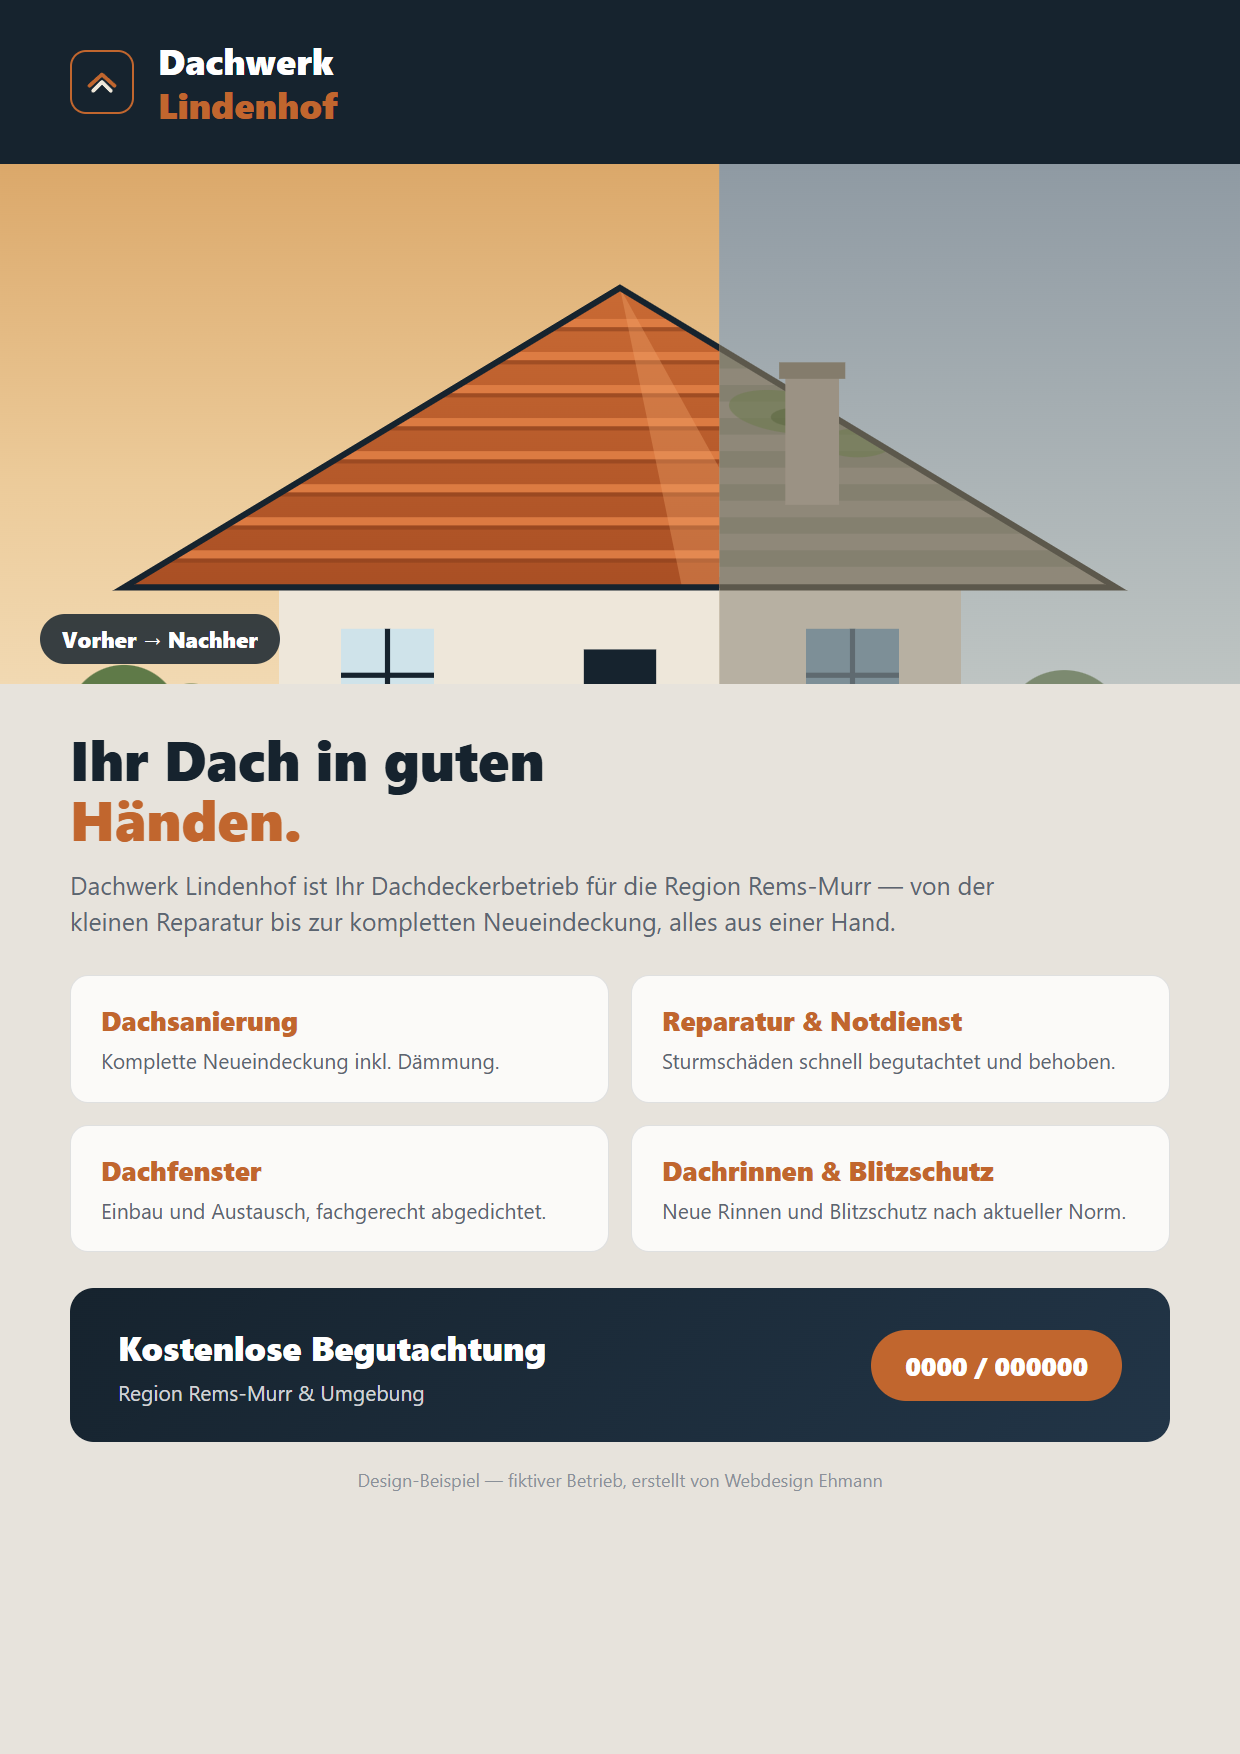
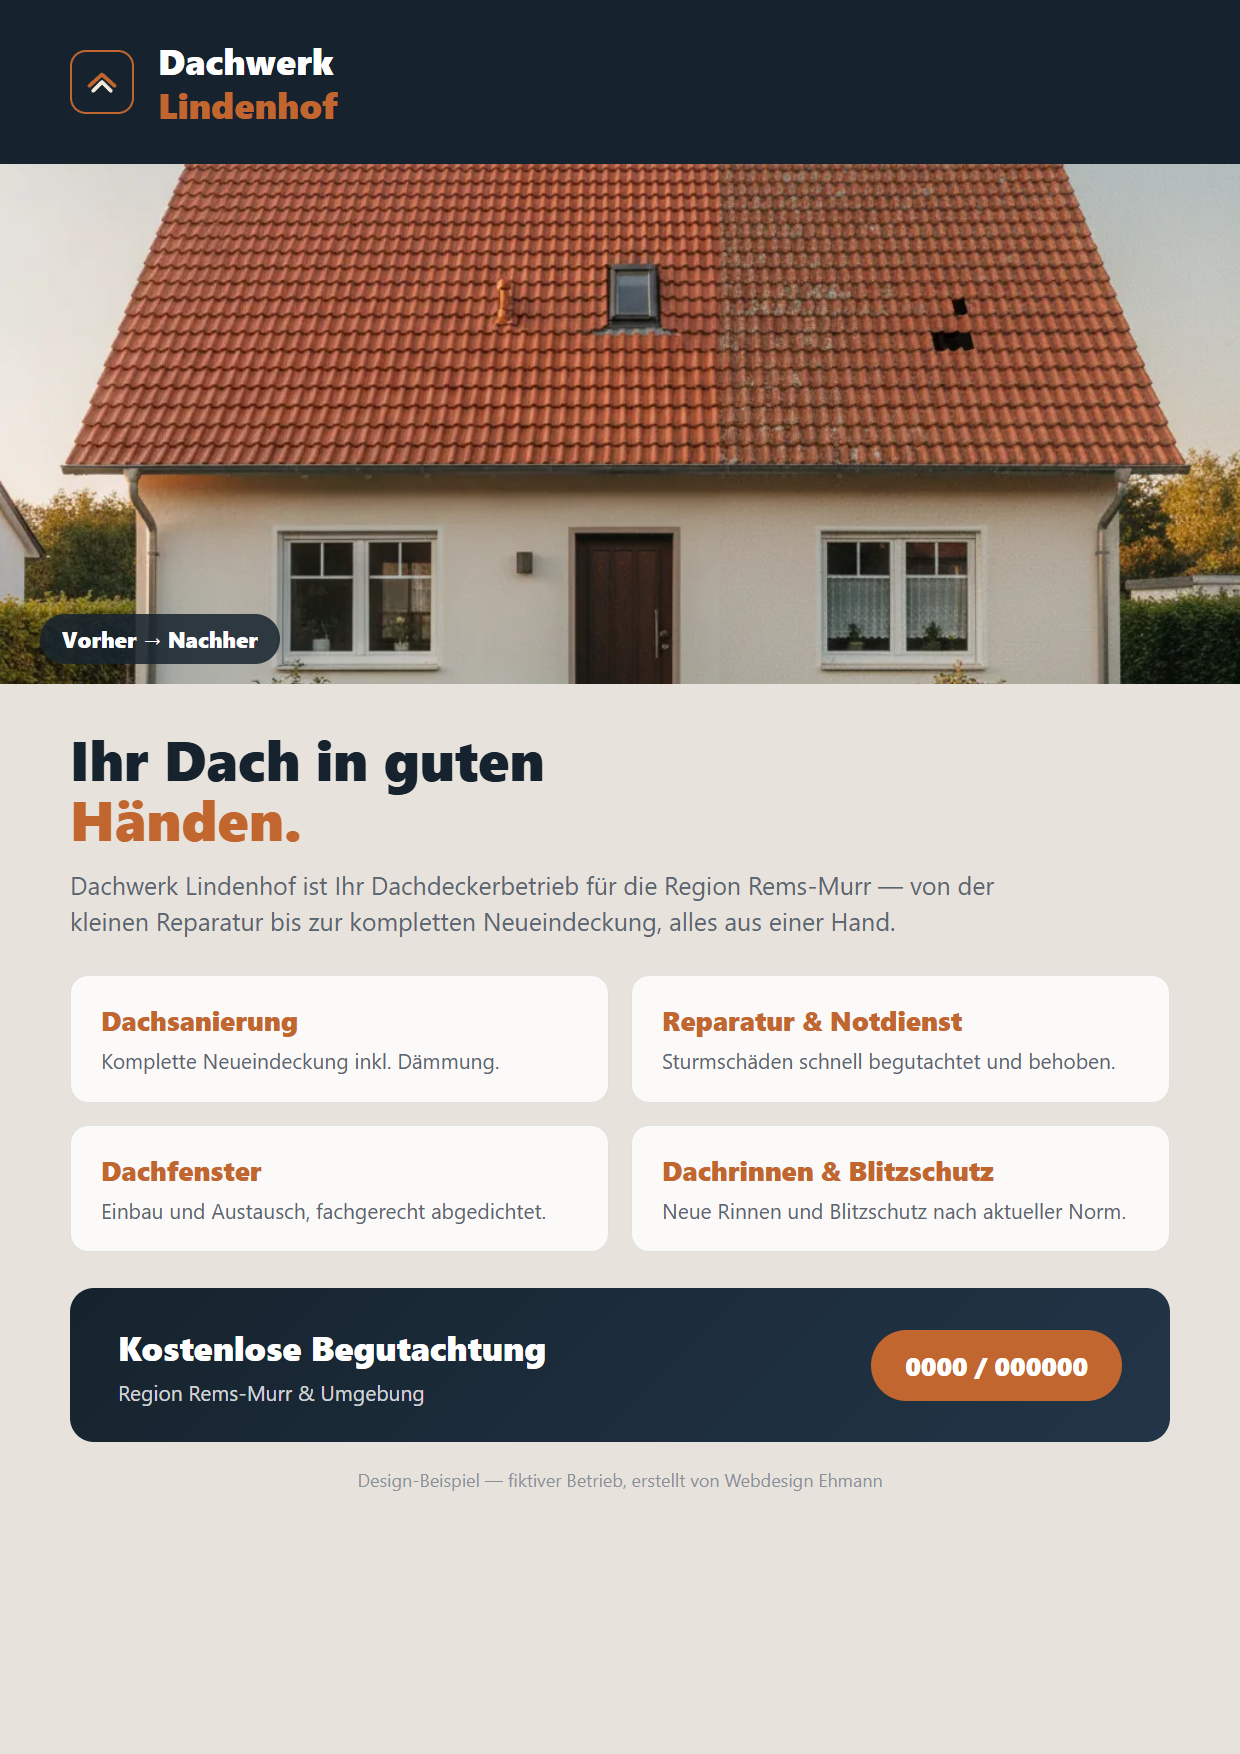
Dachwerk Lindenhof: echte KI-generierte Fotos statt SVG-Illustration
Gemini-API-Key ist jetzt eingerichtet (Bildgenerierung funktioniert) - Hero-
Dachfoto, die 3 Vorher/Nachher-Detailpaare (Ziegel/Rinne/Kamin) und das
Logo wurden per Nano Banana (gemini-2.5-flash-image) neu erzeugt statt
handgezeichneter SVGs. Vorher/Nachher-Paare per Bild-zu-Bild-Edit aus
demselben Ausgangsfoto erzeugt, damit Bildausschnitt/Perspektive fuer den
Scroll-Wipe exakt uebereinstimmen. Als WebP komprimiert.

Marketing-Assets (Instagram-Post 1, Flyer) entsprechend mit den echten
Fotos statt der SVG-Platzhalter neu gerendert.

Changed region(s): [[0.0, 0.0924, 1.0, 0.4002]]

diff --git a/vorschau/dachwerk-lindenhof/index.html b/vorschau/dachwerk-lindenhof/index.html
@@ -57,10 +57,10 @@
   <section id="hero-pin" class="hero-pin">
     <div class="hero-stage">
       <div class="hero-stage__layer hero-stage__layer--before">
-        <img src="assets/images/roof-vorher.svg" alt="Haus mit altem, moosigem Dach vor der Sanierung" width="1200" height="700">
+        <img src="assets/images/roof-vorher.webp" alt="Haus mit altem, moosigem Dach vor der Sanierung" width="1024" height="1024">
       </div>
       <div class="hero-stage__layer hero-stage__layer--after" id="hero-after">
-        <img src="assets/images/roof-nachher.svg" alt="Dasselbe Haus mit frisch saniertem Kupferrot-Dach nach der Sanierung" width="1200" height="700">
+        <img src="assets/images/roof-nachher.webp" alt="Dasselbe Haus mit frisch saniertem Kupferrot-Dach nach der Sanierung" width="1024" height="1024">
       </div>
       <div class="hero-stage__scrim" aria-hidden="true"></div>
       <div class="hero-stage__content">
@@ -90,8 +90,8 @@
           <div class="work-card__frame" tabindex="0">
             <span class="work-card__tag">Vorher</span>
             <span class="work-card__tag work-card__tag--after">Nachher</span>
-            <img class="before" src="assets/images/roof-vorher.svg" alt="Komplettes Hausdach vor der Sanierung" loading="lazy" width="1200" height="700">
-            <img class="after" src="assets/images/roof-nachher.svg" alt="Komplettes Hausdach nach der Sanierung" loading="lazy" width="1200" height="700">
+            <img class="before" src="assets/images/roof-vorher.webp" alt="Komplettes Hausdach vor der Sanierung" loading="lazy" width="1024" height="1024">
+            <img class="after" src="assets/images/roof-nachher.webp" alt="Komplettes Hausdach nach der Sanierung" loading="lazy" width="1024" height="1024">
             <span class="work-card__divider" aria-hidden="true"></span>
           </div>
           <div class="work-card__body">
@@ -104,8 +104,8 @@
           <div class="work-card__frame" tabindex="0">
             <span class="work-card__tag">Vorher</span>
             <span class="work-card__tag work-card__tag--after">Nachher</span>
-            <img class="before" src="assets/images/detail-ziegel-vorher.svg" alt="Rissige, bemooste Dachziegel vor der Sanierung" loading="lazy" width="400" height="300">
-            <img class="after" src="assets/images/detail-ziegel-nachher.svg" alt="Neue Dachziegel nach der Sanierung" loading="lazy" width="400" height="300">
+            <img class="before" src="assets/images/detail-ziegel-vorher.webp" alt="Rissige, bemooste Dachziegel vor der Sanierung" loading="lazy" width="900" height="900">
+            <img class="after" src="assets/images/detail-ziegel-nachher.webp" alt="Neue Dachziegel nach der Sanierung" loading="lazy" width="900" height="900">
             <span class="work-card__divider" aria-hidden="true"></span>
           </div>
           <div class="work-card__body">
@@ -118,8 +118,8 @@
           <div class="work-card__frame" tabindex="0">
             <span class="work-card__tag">Vorher</span>
             <span class="work-card__tag work-card__tag--after">Nachher</span>
-            <img class="before" src="assets/images/detail-rinne-vorher.svg" alt="Verrostete, undichte Dachrinne vor der Sanierung" loading="lazy" width="400" height="300">
-            <img class="after" src="assets/images/detail-rinne-nachher.svg" alt="Neue Dachrinne nach der Sanierung" loading="lazy" width="400" height="300">
+            <img class="before" src="assets/images/detail-rinne-vorher.webp" alt="Verrostete, undichte Dachrinne vor der Sanierung" loading="lazy" width="900" height="900">
+            <img class="after" src="assets/images/detail-rinne-nachher.webp" alt="Neue Dachrinne nach der Sanierung" loading="lazy" width="900" height="900">
             <span class="work-card__divider" aria-hidden="true"></span>
           </div>
           <div class="work-card__body">
@@ -132,8 +132,8 @@
           <div class="work-card__frame" tabindex="0">
             <span class="work-card__tag">Vorher</span>
             <span class="work-card__tag work-card__tag--after">Nachher</span>
-            <img class="before" src="assets/images/detail-kamin-vorher.svg" alt="Beschädigter Schornstein-Anschluss vor der Sanierung" loading="lazy" width="400" height="300">
-            <img class="after" src="assets/images/detail-kamin-nachher.svg" alt="Neu abgedichteter Schornstein-Anschluss nach der Sanierung" loading="lazy" width="400" height="300">
+            <img class="before" src="assets/images/detail-kamin-vorher.webp" alt="Beschädigter Schornstein-Anschluss vor der Sanierung" loading="lazy" width="900" height="900">
+            <img class="after" src="assets/images/detail-kamin-nachher.webp" alt="Neu abgedichteter Schornstein-Anschluss nach der Sanierung" loading="lazy" width="900" height="900">
             <span class="work-card__divider" aria-hidden="true"></span>
           </div>
           <div class="work-card__body">
